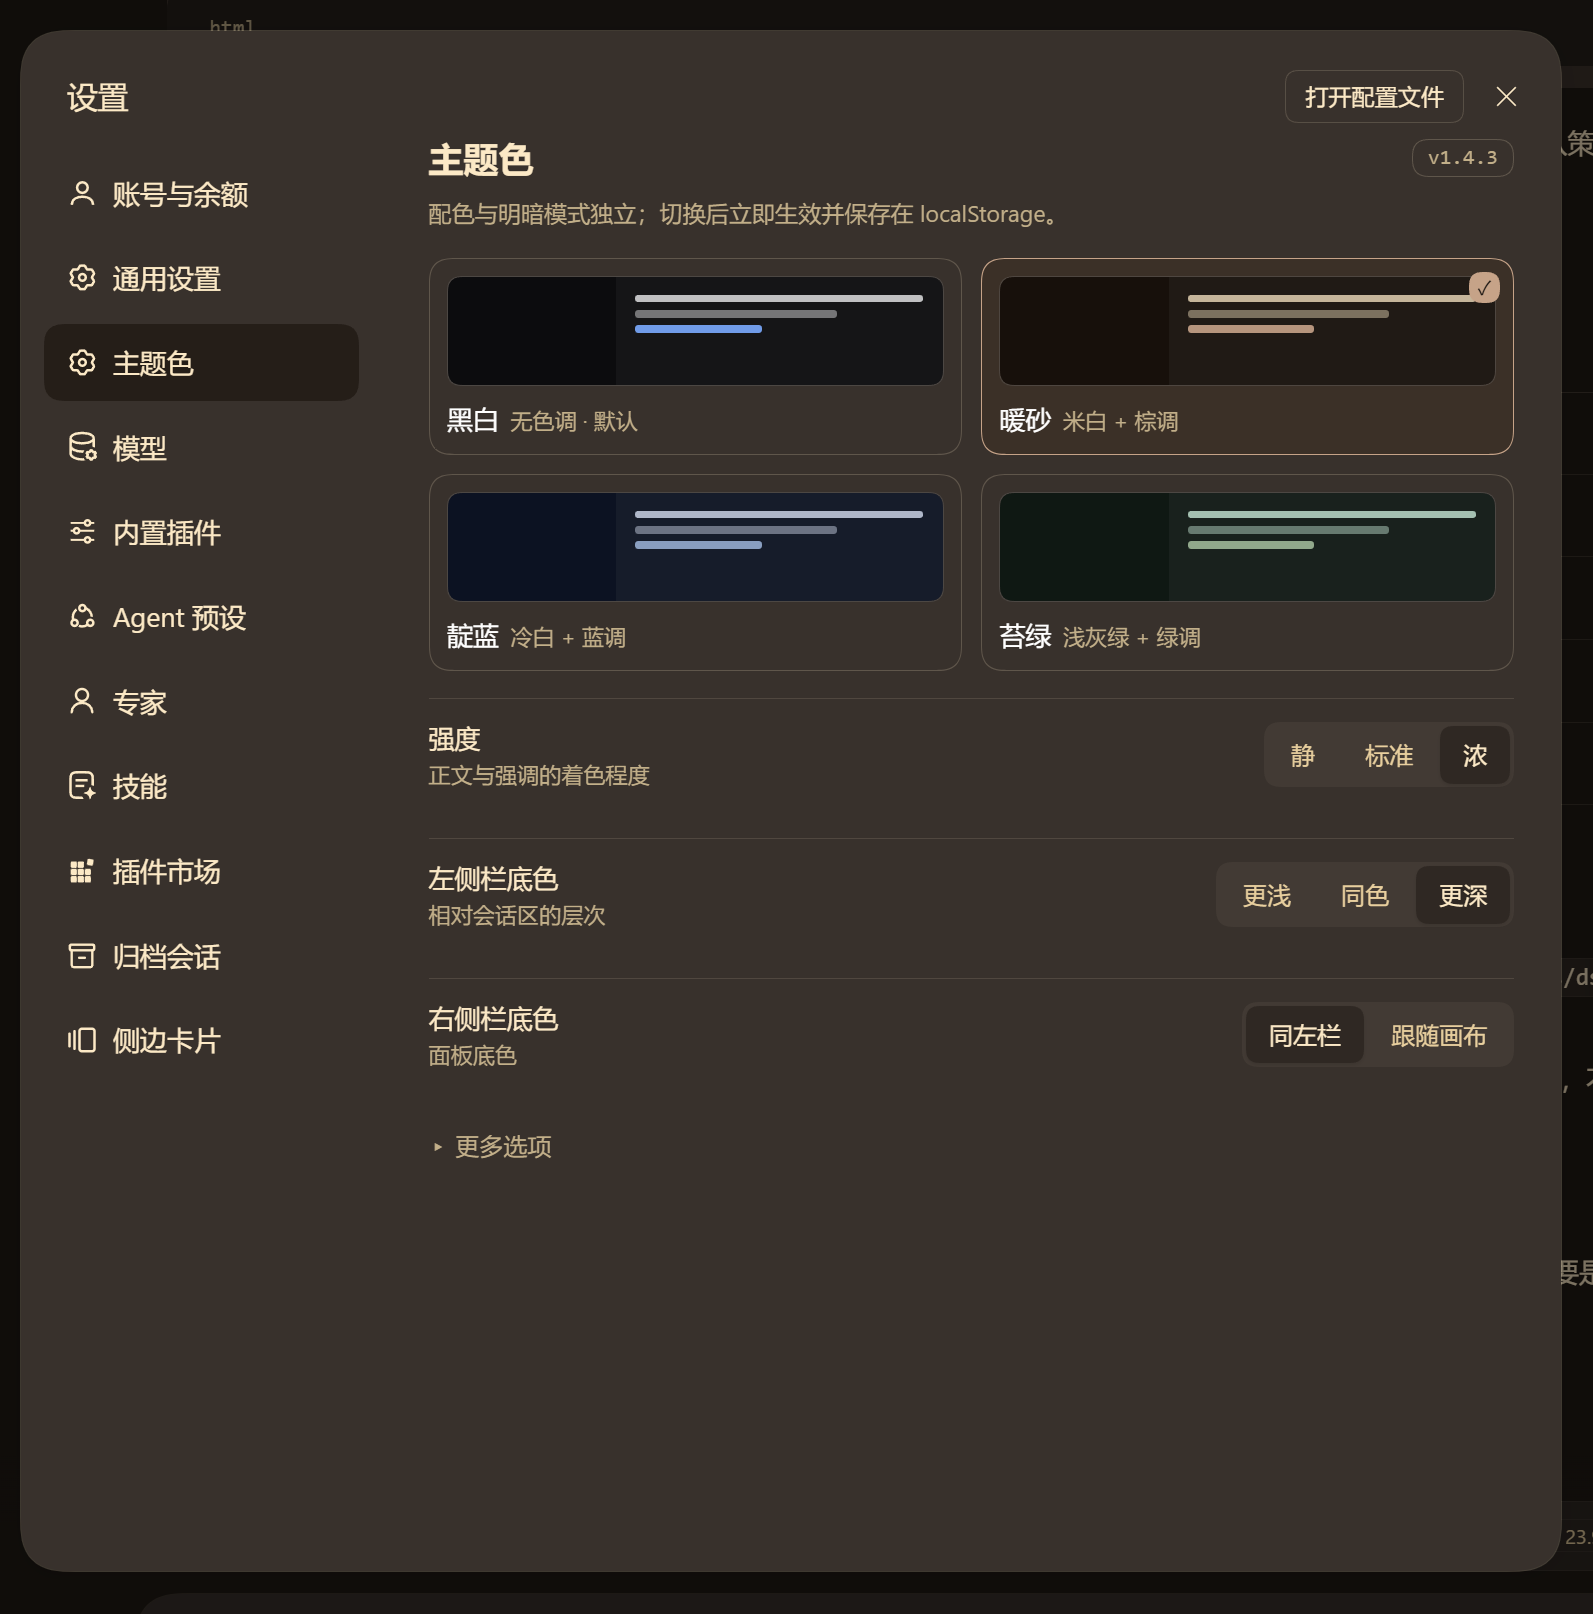
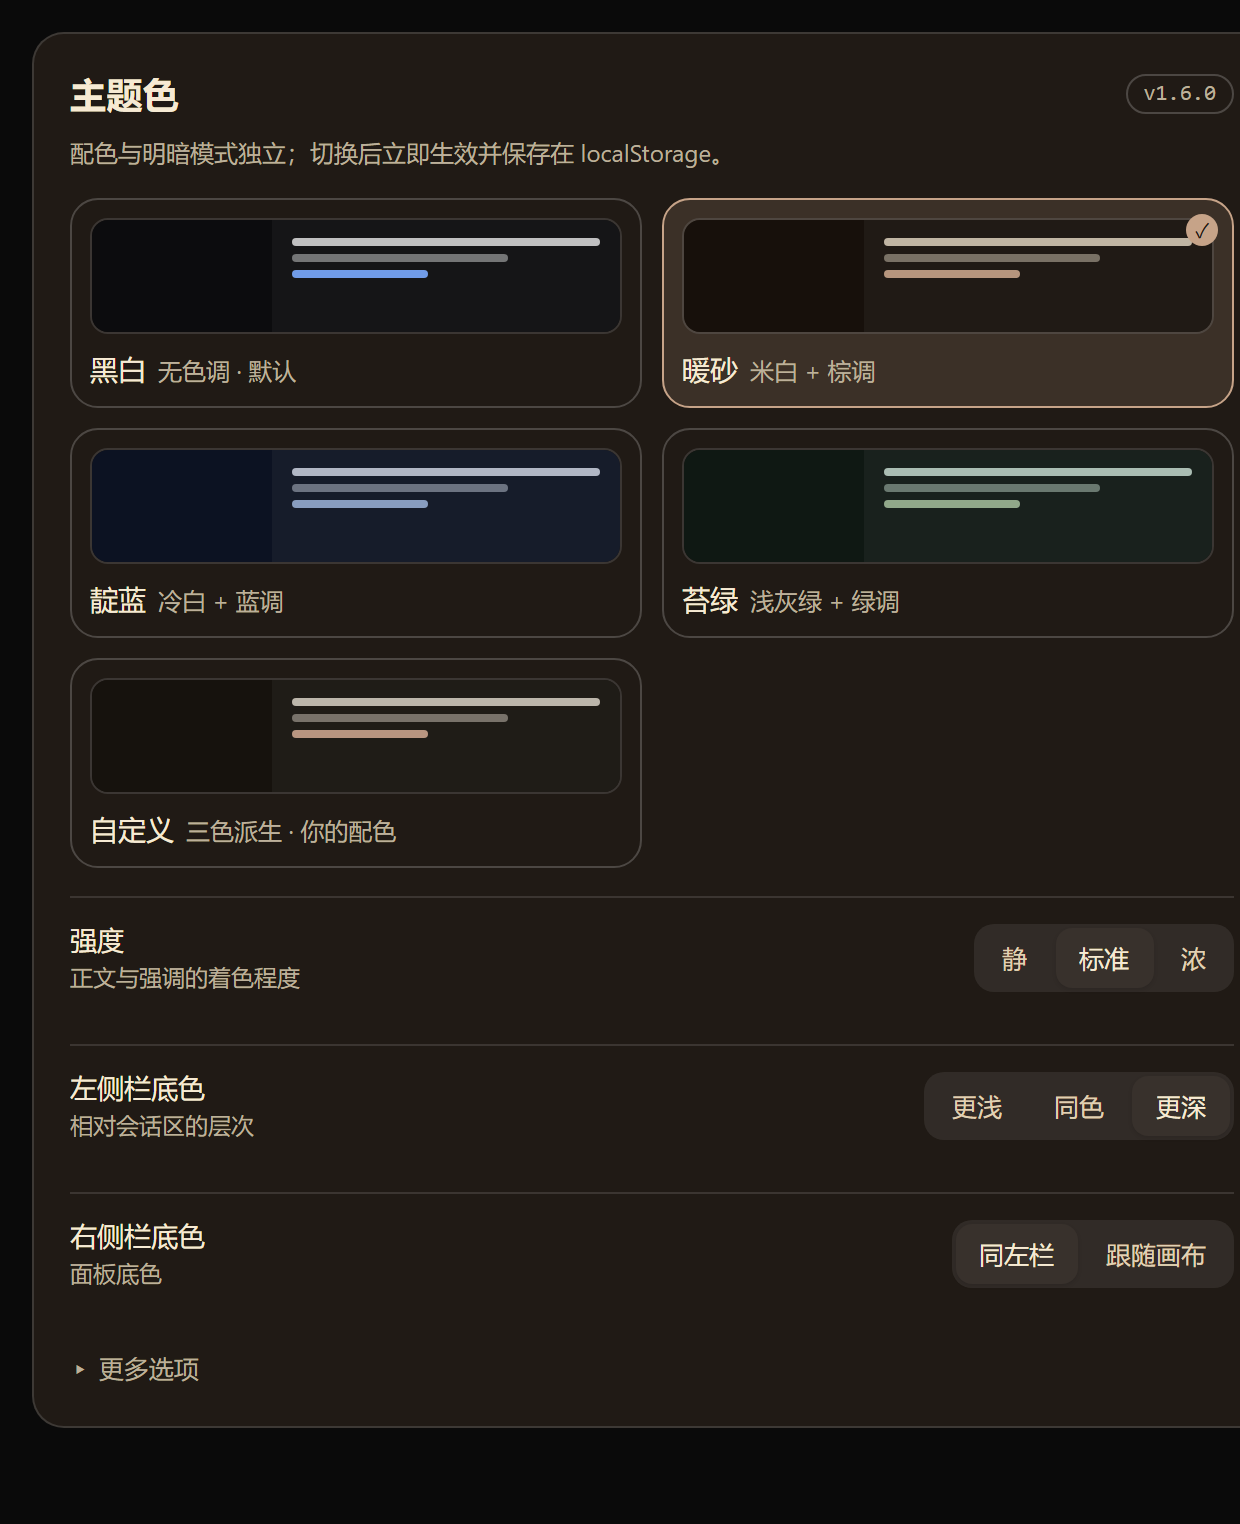
docs(A10): README 首图换成当前版本（5 卡，真机 564px 宽静态渲染）
- 浅色/深色/自定义面板三张，--scale 2（1240px 宽），五语 README 注明静态渲染
- screenshots.json 同步；删除 v1.4.3 的旧首图

diff --git a/CHANGELOG.md b/CHANGELOG.md
@@ -36,6 +36,9 @@
 - **A13** 加 `prefers-reduced-motion` 降级
 - **A14** `docs/DESIGN.md` 补「当前标定值」表（旧推演内容保留，注明以 `client.js` 为准）
 - **A15** 删掉 4 语共 36 条从未渲染的文案键与未被调用的 `swatches()`
+- **A10 证据链**：README 首图换成当前版本（5 张卡）的**静态渲染**，按真机内容宽 564 px 出图
+  （浅色 / 深色 / 自定义面板三张，`--scale 2` 即 1240 px 宽），并在五语 README 里注明「静态渲染」；
+  `screenshots.json` 同步为这三张
 - 工具：`tools/preview-settings.mjs` 新增 `--width`（默认按真机 564px 内容宽）与 `--adv`（默认折叠），
   token 跟随 `--palette`；新增 `tools/measure-preview.mjs`（量越界/行高/关键计算色，非 0 越界退出 1）
 

diff --git a/README.md b/README.md
@@ -4,7 +4,9 @@
 
 Theme palette for DeepSeek Harness (web & desktop): **4 palettes × light/dark**, two independent axes.
 
-![Settings page: four palettes, strength and panel surfaces](assets/screenshot-settings-light.png)
+![Settings page: five palettes, strength and panel surfaces](assets/screenshot-settings-light.png)
+
+*Static render of the settings page at the real panel width (564 px content).*
 
 ## Compatibility
 

diff --git a/README-zh.md b/README-zh.md
@@ -4,7 +4,9 @@
 
 DeepSeek Harness（Web / 桌面）的主题配色插件：**4 套配色 × 明暗两模式**，两个轴互相独立。
 
-![设置页：四套配色、强度与面板表面](assets/screenshot-settings-light.png)
+![设置页：五套配色、强度与面板表面](assets/screenshot-settings-light.png)
+
+*上图按真机面板宽度（内容区 564 px）静态渲染。*
 
 ## Compatibility
 

diff --git a/README-pt.md b/README-pt.md
@@ -6,6 +6,8 @@ Paleta de tema para o DeepSeek Harness (web e desktop): **4 paletas × claro/esc
 
 ![Página de configuração](assets/screenshot-settings-light.png)
 
+*Render estático na largura real do painel (564 px de conteúdo).*
+
 ## Compatibility
 
 | Superfície | Estado |

diff --git a/README-es.md b/README-es.md
@@ -6,6 +6,8 @@ Paleta de tema para DeepSeek Harness (web y escritorio): **4 paletas × claro/os
 
 ![Página de ajustes](assets/screenshot-settings-light.png)
 
+*Render estático con el ancho real del panel (564 px de contenido).*
+
 ## Compatibility
 
 | Superficie | Estado |
